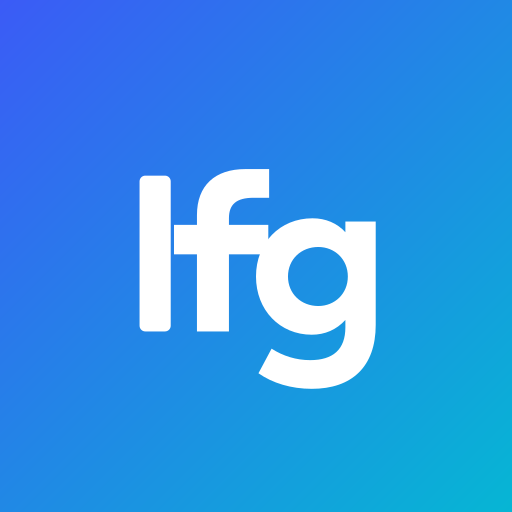
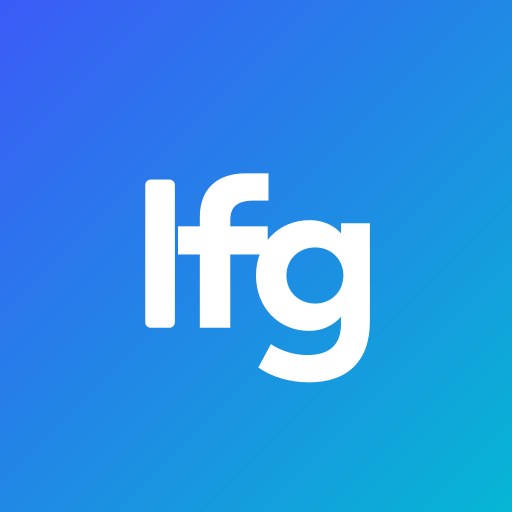
fix(web): match the vector wordmark to the pre-vector weight
Converting the mark to outlines in e2f81af restored sharpness but changed
the design: the vector glyph is 56.3% of the tile with a 7.4% stem, against
48.7% and 6.1% for the bitmap it replaced. Same wordmark, visibly bigger and
heavier than the logo in the wild — see docs/images/lfg-screenshot-1.jpg.

The two are different typefaces, so no single scale matches every metric
(the bitmap is wider per unit height and has a shorter descender). Scale by
the stem instead, since that is what reads as weight: at 0.78 the stem is
5.8% of the tile against the old 6.1%, and the ascender 28.9% against 27.3%.
Re-centre on (256.3, 271.8), where the old artwork sat.

Apply the same 0.78 to the maskable icon, which was drawn at .82, so the
adaptive icon and the app icon carry one weight.

diff --git a/web/src/lib/icon-assets.ts b/web/src/lib/icon-assets.ts
@@ -1,4 +1,4 @@
 // Bump this URL whenever the small mark changes. The query is intentionally
 // immutable on the server, so Safari, an installed PWA, and the service worker
 // all agree that different artwork has a different cache key.
-export const LFG_SMALL_ICON_PATH = "/icon-small.svg?v=20260731-vector";
+export const LFG_SMALL_ICON_PATH = "/icon-small.svg?v=20260731-vector-2";

diff --git a/CHANGELOG.md b/CHANGELOG.md
@@ -4,6 +4,13 @@ Recent product updates and deployment notes.
 
 ## [Unreleased]
 
+## July 31, 2026 - Logo weight matched to the original (v0.1.161)
+
+- The vector wordmark now sits at the same size and weight the mark had before
+  it was redrawn. Converting it to vector had also made it noticeably larger and
+  heavier than the logo people were used to; it reads as the familiar mark again,
+  just sharp.
+
 ## July 31, 2026 - A genuinely sharp logo, and updates that actually arrive (v0.1.160)
 
 - The LFG mark is now real vector artwork, so it is sharp at every size. It had
